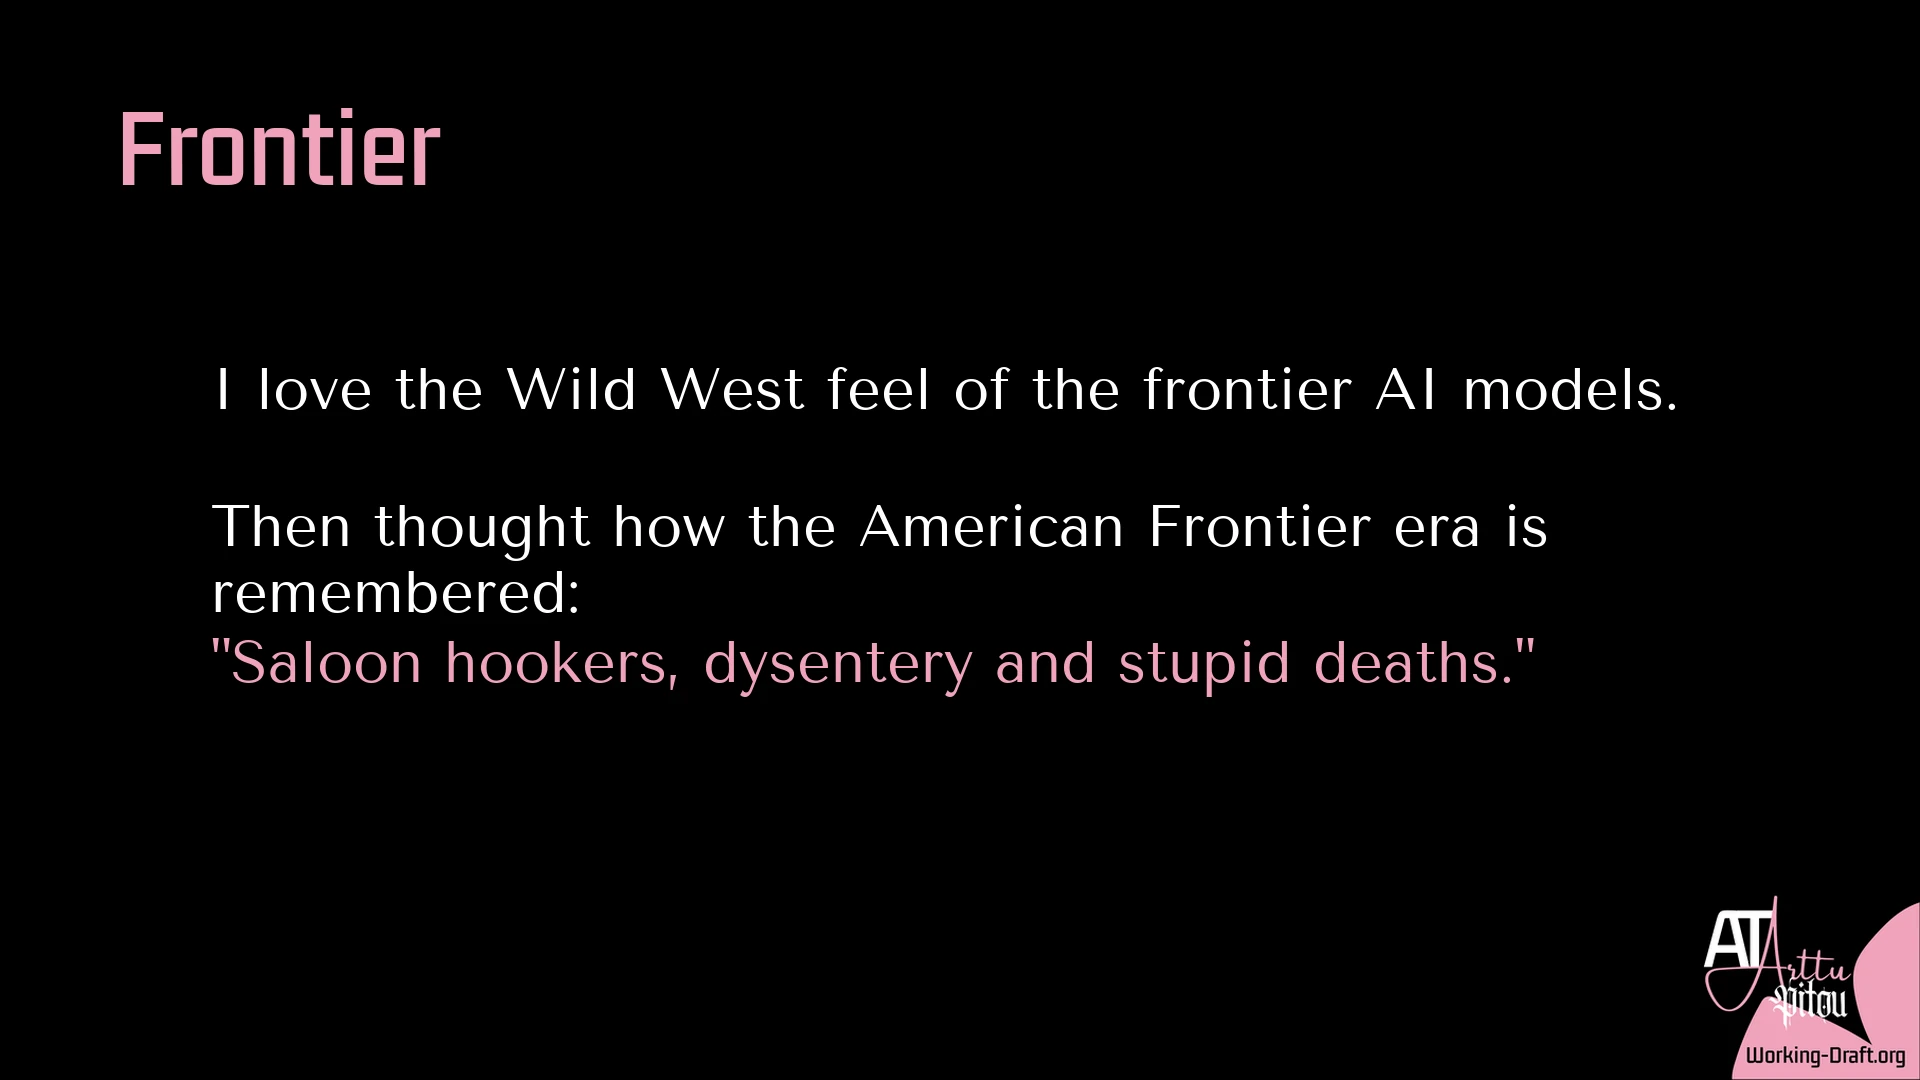
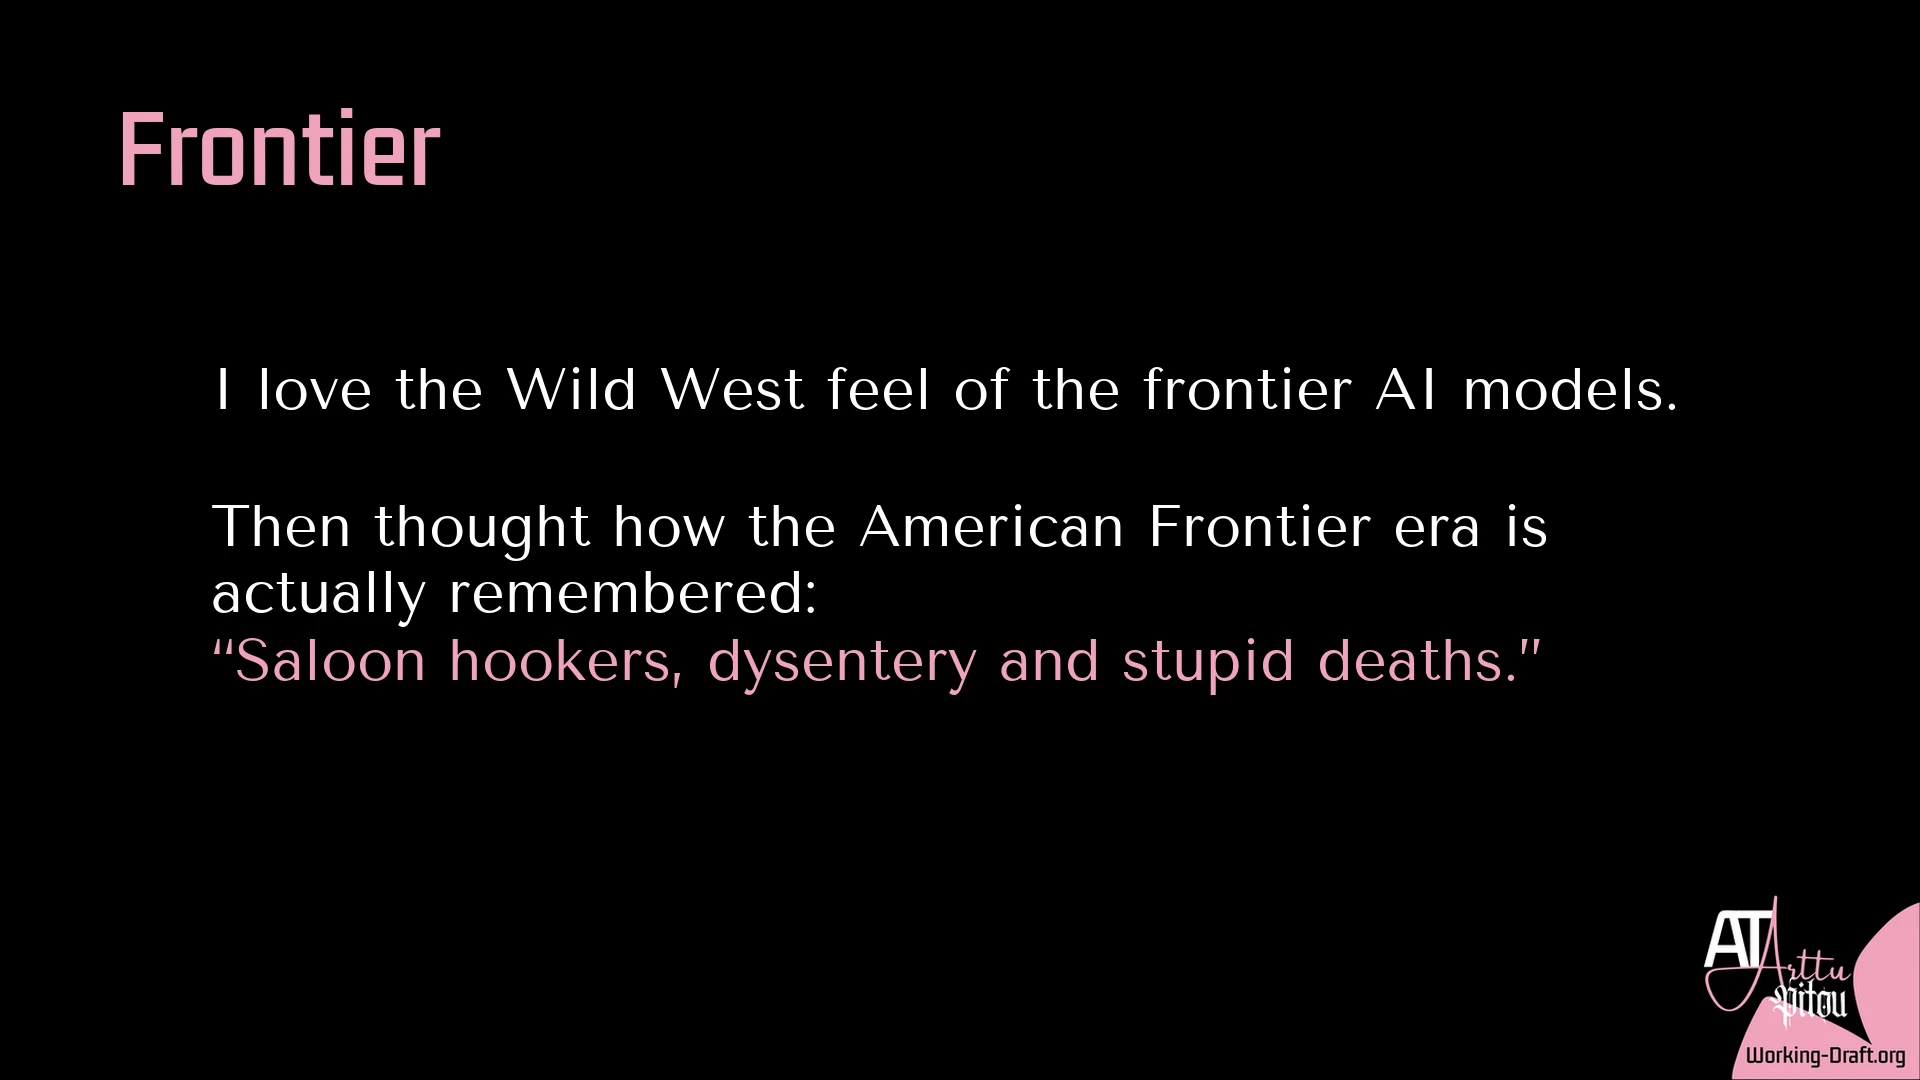
Whim #5 - Frontier

Changed region(s): [[0.0938, 0.5194, 0.8125, 0.6417]]

diff --git a/_whims/2026-08-07-frontier-1.md b/_whims/2026-08-07-frontier-1.md
@@ -4,13 +4,14 @@ title: "Frontier"
 date: 2026-08-07T15:57:08.252005+00:00
 uuid: "bbb78023-59b7-41f0-a496-78609c99b302"
 slug: "frontier-1"
-revision: 1
+revision: 2
 visibility: "public"
 permalink: /whims/frontier-1/
 image: "/assets/whims/frontier-1-hd.webp"
-image_alt: "A black Whim Du Jour card with the pink At Arttu Pitou logo and Working-Draft.org as source in the lower-right corner. Title: Frontier. Text: I love the Wild West feel of the frontier AI models. Then thought how the American Frontier era is remembered: \"Saloon hookers, dysentery and stupid deaths.\""
+image_alt: "A black Whim Du Jour card with the pink At Arttu Pitou logo and Working-Draft.org as source in the lower-right corner. Title: Frontier. Text: I love the Wild West feel of the frontier AI models. Then thought how the American Frontier era is actually remembered: “Saloon hookers, dysentery and stupid deaths.”"
 ---
 I love the Wild West feel of the frontier AI models.
 
-Then thought how the American Frontier era is remembered:
-"Saloon hookers, dysentery and stupid deaths."
+Then thought how the American Frontier era is 
+actually remembered:
+“Saloon hookers, dysentery and stupid deaths.”
